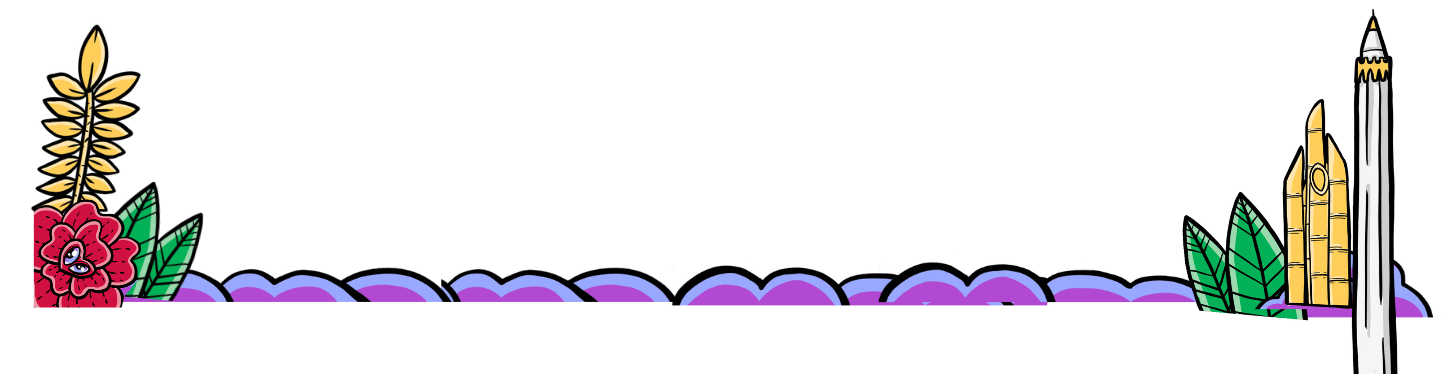
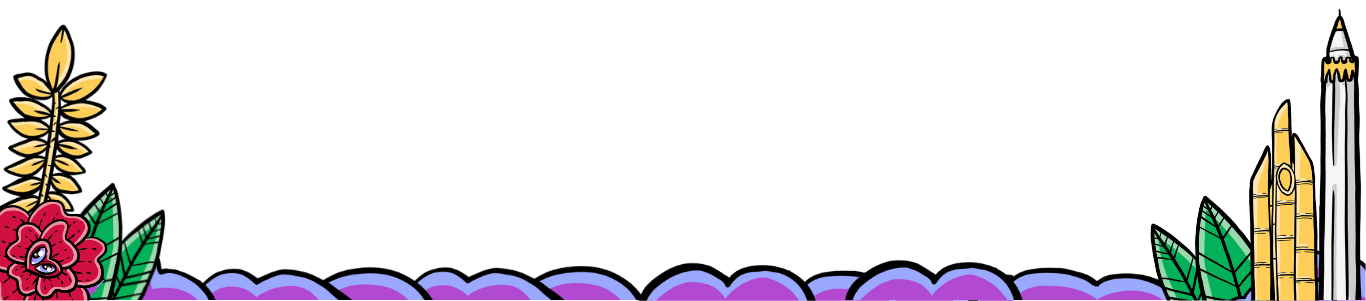
Changes

diff --git a/src/components/GraduationSection.tsx b/src/components/GraduationSection.tsx
@@ -6,7 +6,27 @@ import graduationBottom from '@/assets/graduation-bottom.png';
 const GraduationSection = () => {
   return (
     <section className="pt-12 sm:pt-16 md:pt-20 pb-0 bg-[#eae0f5] relative overflow-hidden">
-      <div className="container-custom text-center">
+      {/* Yellow decorative elements */}
+      <div className="absolute top-0 left-0 w-16 sm:w-24 md:w-32">
+        <svg viewBox="0 0 80 120" fill="none" xmlns="http://www.w3.org/2000/svg">
+          <ellipse cx="20" cy="30" rx="12" ry="20" fill="#F5C842" transform="rotate(-30 20 30)" />
+          <ellipse cx="35" cy="20" rx="10" ry="18" fill="#F5C842" transform="rotate(-10 35 20)" />
+          <ellipse cx="15" cy="55" rx="11" ry="19" fill="#F5C842" transform="rotate(-45 15 55)" />
+          <ellipse cx="40" cy="45" rx="9" ry="16" fill="#F5C842" transform="rotate(5 40 45)" />
+          <ellipse cx="28" cy="70" rx="10" ry="17" fill="#F5C842" transform="rotate(-25 28 70)" />
+        </svg>
+      </div>
+      <div className="absolute top-0 right-0 w-16 sm:w-24 md:w-32">
+        <svg viewBox="0 0 80 120" fill="none" xmlns="http://www.w3.org/2000/svg">
+          <ellipse cx="60" cy="30" rx="12" ry="20" fill="#F5C842" transform="rotate(30 60 30)" />
+          <ellipse cx="45" cy="20" rx="10" ry="18" fill="#F5C842" transform="rotate(10 45 20)" />
+          <ellipse cx="65" cy="55" rx="11" ry="19" fill="#F5C842" transform="rotate(45 65 55)" />
+          <ellipse cx="40" cy="45" rx="9" ry="16" fill="#F5C842" transform="rotate(-5 40 45)" />
+          <ellipse cx="52" cy="70" rx="10" ry="17" fill="#F5C842" transform="rotate(25 52 70)" />
+        </svg>
+      </div>
+
+      <div className="container-custom text-center relative z-10">
         <motion.div
           initial={{ opacity: 0, y: 30 }}
           whileInView={{ opacity: 1, y: 0 }}
@@ -37,7 +57,7 @@ const GraduationSection = () => {
           <img
             src={certificate}
             alt="Bitcoin Diploma Graduation Certificate"
-            className="w-full rounded-xl shadow-lg"
+            className="w-full"
             loading="lazy"
           />
         </motion.div>
